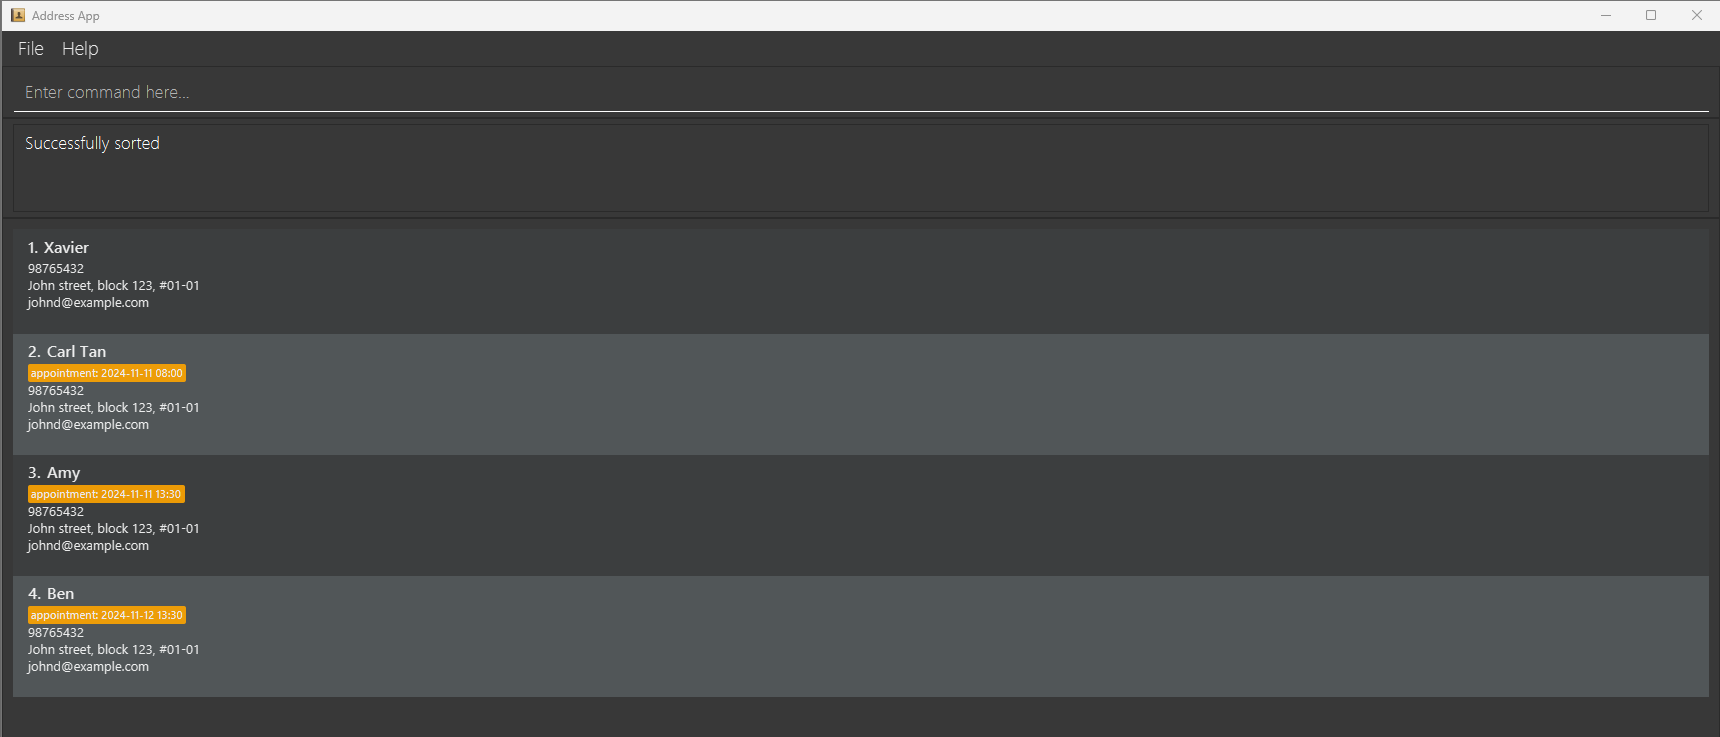
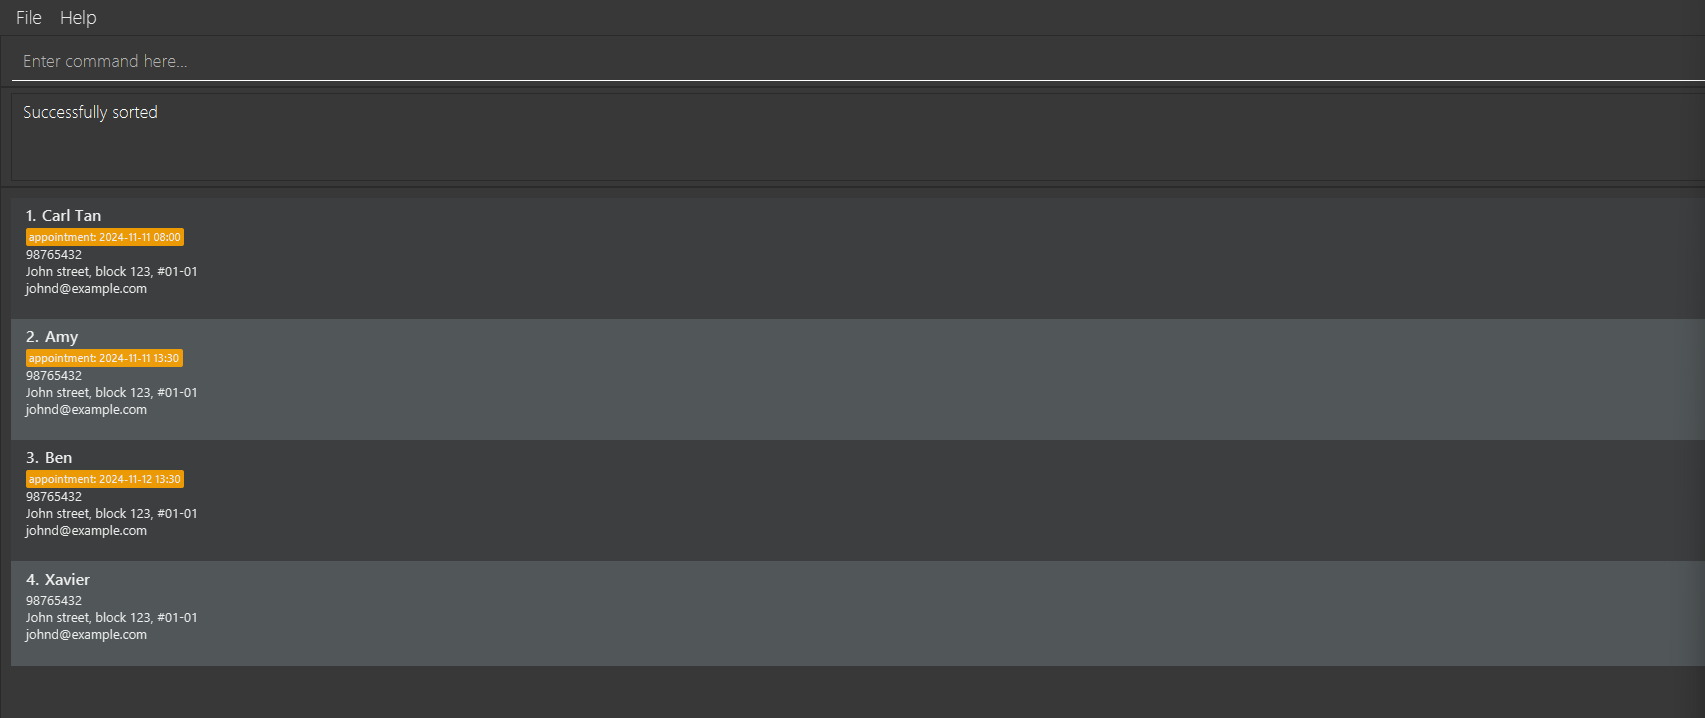
Change images in UG

diff --git a/docs/UserGuide.md b/docs/UserGuide.md
@@ -247,9 +247,9 @@ Examples:
 * `sort n/descending` will sort by persons names alphabetically in descending order
   ![result for 'sort descending'](images/sortDescendingResult.png)
 * `sort sch/ascending` will sort by schedule in ascending order
-  ![result for 'sort and sort ascending'](images/sortResult.png)
+  ![result for 'sort and sort ascending'](images/sortByScheduleAsc.png)
 * `sort sch/descending` will sort by schedule in descending order
-  ![result for 'sort descending'](images/sortDescendingResult.png)
+  ![result for 'sort descending'](images/sortByScheduleDesc.png)
 
 ### Clearing all entries : `clear`
 
